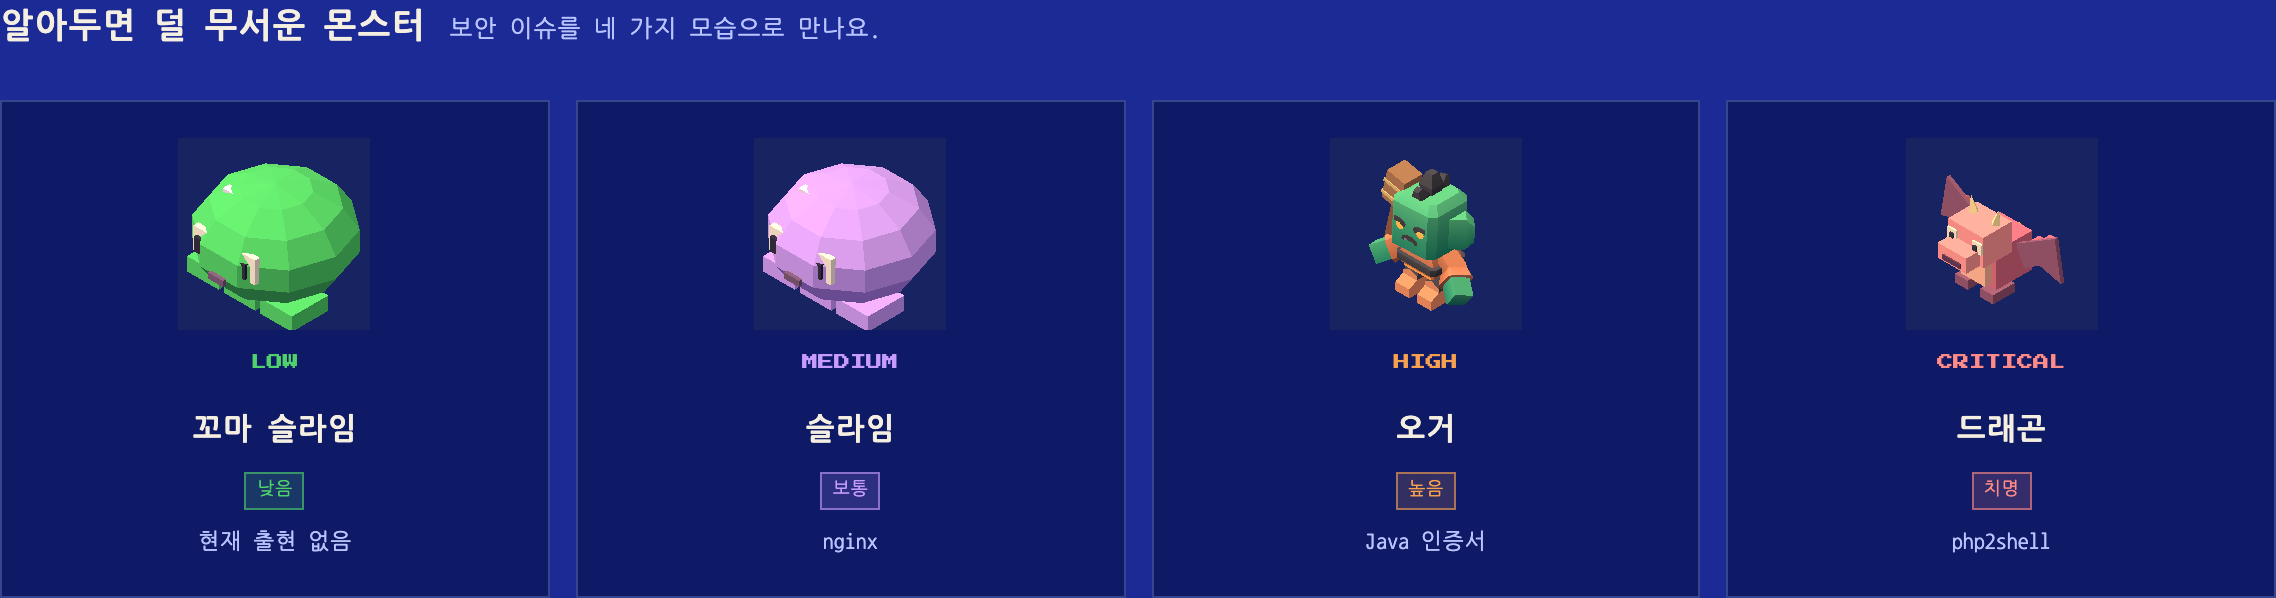
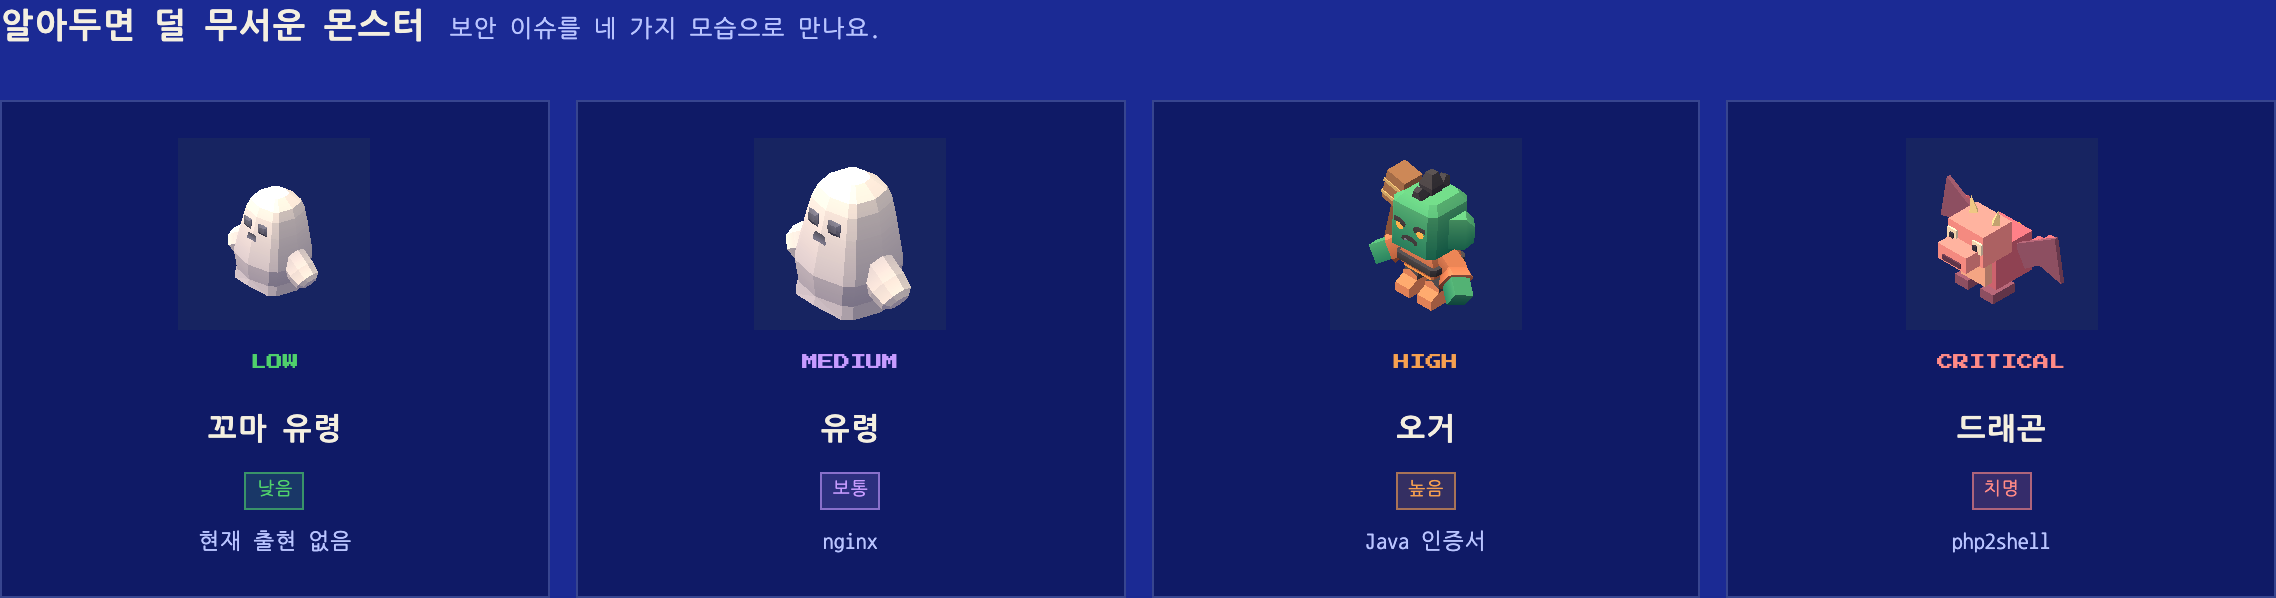
Replace slime monsters with animated Kenney ghosts

diff --git a/src/scene.js b/src/scene.js
@@ -150,7 +150,7 @@ export class OfficeScene {
     const rows=Math.ceil(count/2),spacing=Math.min(6.7,15/Math.max(1,rows-1));
     issues.forEach((issue,i)=>{
       const actor=monster(issue.grade);actor.root.traverse(n=>{if(n.isMesh)n.material=Array.isArray(n.material)?n.material.map(m=>m.clone()):n.material.clone();});this.scene.add(actor.root);const x=count<=3?23.5+(i%2)*1.1:19.3+(i%2)*7.1;const z=count<=3?7.2+i*6.1:5.5+Math.floor(i/2)*spacing;
-      actor.root.position.set(x,0,z);actor.root.rotation.y=-Math.PI/2;actor.home=actor.root.position.clone();actor.baseScale=actor.root.scale.clone();actor.issue=issue;actor.height=actor.height??5.4;
+      actor.root.position.set(x,actor.hoverHeight??0,z);actor.root.rotation.y=-Math.PI/2;actor.home=actor.root.position.clone();actor.baseScale=actor.root.scale.clone();actor.issue=issue;actor.height=actor.height??5.4;
       if(count>6){const s=Math.max(.48,Math.min(1,Math.sqrt(6/count)));actor.root.scale.multiplyScalar(s);actor.baseScale.copy(actor.root.scale);actor.height*=s;}
       if(actor.mixer)this.mixers.push(actor.mixer);
       this.register(actor,`issue-${issue.id}`,()=>`${issueLabel(issue)} · ${GRADES[issue.grade].ko} · ${targetVersion(issue)}에서 퇴치 예정`);
@@ -170,7 +170,7 @@ export class OfficeScene {
     const renderer=new THREE.WebGLRenderer({antialias:false,alpha:false,preserveDrawingBuffer:true});renderer.setSize(RENDERING.thumbnailSize,RENDERING.thumbnailSize);renderer.setPixelRatio(1);renderer.outputColorSpace=THREE.SRGBColorSpace;
     const thumbs={hero:thumbnail(renderer,this.hero.root),pet:thumbnail(renderer,this.pet.root)};
     this.crewActors.forEach((a,i)=>{const model=mini(i,a.data.shirt);model.mixer.update(.2);thumbs[`crew-${i}`]=thumbnail(renderer,model.root);});
-    Object.keys(GRADES).forEach(grade=>{const m=monster(grade);m.mixer?.update(.2);thumbs[grade]=thumbnail(renderer,m.root);});
+    Object.keys(GRADES).forEach(grade=>{const m=monster(grade);m.mixer?.update(.2);thumbs[grade]=thumbnail(renderer,m.root,{scale:grade==='low'?2.6/3.6:1});});
     renderer.dispose();renderer.forceContextLoss();this.thumbnails=thumbs;
   }
   label(className,text,target,height=0){
@@ -319,7 +319,7 @@ export class OfficeScene {
     this.riftCore.material.emissiveIntensity=1.2+Math.sin(t*2.8)*.6;this.riftAura.material.opacity=.12+(Math.sin(t*2.8)+1)*.06;
     const jump=(this.pet.jumpUntil??0)>t?Math.abs(Math.sin(((this.pet.jumpUntil-t)/.85)*Math.PI*2))*1.6:Math.max(0,Math.sin(t*3.2))*.3;this.pet.root.position.y=jump;
     for(const actor of this.monsters){
-      if(actor!==this.battle?.actor){if(actor.kind==='slime'){actor.root.scale.y=actor.baseScale.y*(1+Math.sin(t*2.5+actor.home.z)*.05);actor.root.position.y=Math.max(0,Math.sin(t*2.5+actor.home.z))*.17;}if(actor.kind==='dragon')actor.wings.forEach((w,i)=>w.rotation.z=Math.sin(t*2)*.06*(i?1:-1));}
+      if(actor!==this.battle?.actor){if(actor.kind==='ghost')actor.root.position.y=actor.home.y+Math.sin(t*2+actor.home.z)*.18;if(actor.kind==='dragon')actor.wings.forEach((w,i)=>w.rotation.z=Math.sin(t*2)*.06*(i?1:-1));}
     }
     if(!this.battle&&this.monsters.length&&t>=this.nextBattle)this.startBattle();
     if(this.battle)this.updateBattle();
@@ -337,17 +337,17 @@ export class OfficeScene {
     const type=actor.kind==='dragon'?'breath':'melee';this.battle={actor,type,start:this.elapsed,impact:false,defended:false};this.metrics.combat++;this.metrics[type]++;
     this.nextBattle=this.elapsed+random(2.6,4.2);this.pet.jumpUntil=this.elapsed+.85;this.bubble(this.pet,'삐빅!',1.2,{battle:true});
     const label=issueLabel(actor.issue);this.onLog(`${particle(label)} ${type==='breath'?'브레스를 준비한다':'방어선으로 다가온다'}`,'warn');
-    if(type==='melee'){actor.attackPosition=new THREE.Vector3(12.5,0,14.7);actor.setAction?.('walk');}
+    if(type==='melee'){actor.attackPosition=new THREE.Vector3(12.5,actor.home.y,14.7);actor.setAction?.('walk');}
   }
   updateBattle(){
     const battle=this.battle,actor=battle.actor,t=this.elapsed-battle.start;
     if(battle.type==='melee'){
       if(t<.8){actor.root.position.lerpVectors(actor.home,actor.attackPosition,ease(t/.8));actor.root.rotation.y=Math.atan2(this.hero.home.x-actor.home.x,this.hero.home.z-actor.home.z);}
-      else if(t<1.1){actor.setAction?.('idle');if(actor.club)actor.club.rotation.z=-.22-(t-.8)/.3*1.5;else actor.root.scale.y=actor.baseScale.y*(1-(t-.8)/.3*.35);}
+      else if(t<1.1){actor.setAction?.(actor.kind==='ghost'?'attack-melee-right':'idle');if(actor.club)actor.club.rotation.z=-.22-(t-.8)/.3*1.5;}
       else if(t<1.27){const p=(t-1.1)/.17;this.hero.root.position.x=lerp(this.hero.home.x,10.2,p);this.hero.sword.rotation.z=lerp(-.35,-2.1,p);if(actor.club)actor.club.rotation.z=lerp(-1.72,.4,p);}
       else if(t<2.25){
-        if(!battle.impact){battle.impact=true;this.bubble(this.hero,'반격!',1.3,{battle:true});this.onLog(`MDRM 용사가 ${particle(issueLabel(actor.issue),'을/를')} 밀어냈다`,'good');this.sparks.visible=true;this.sparks.position.set(11.5,2.7,14.7);this.flash(actor,true);}
-        const p=Math.min(1,(t-1.27)/.9);actor.root.position.lerpVectors(actor.attackPosition,actor.home,ease(p));actor.root.position.y=Math.sin(p*Math.PI)*1.1;this.hero.root.position.lerpVectors(new THREE.Vector3(10.2,0,14.7),this.hero.home,ease(Math.min(1,p*1.4)));this.hero.sword.rotation.z=lerp(-2.1,-.35,p);actor.root.scale.copy(actor.baseScale);if(actor.club)actor.club.rotation.z=lerp(.4,-.22,p);
+        if(!battle.impact){battle.impact=true;actor.setAction?.('idle');this.bubble(this.hero,'반격!',1.3,{battle:true});this.onLog(`MDRM 용사가 ${particle(issueLabel(actor.issue),'을/를')} 밀어냈다`,'good');this.sparks.visible=true;this.sparks.position.set(11.5,2.7,14.7);this.flash(actor,true);}
+        const p=Math.min(1,(t-1.27)/.9);actor.root.position.lerpVectors(actor.attackPosition,actor.home,ease(p));actor.root.position.y+=Math.sin(p*Math.PI)*1.1;this.hero.root.position.lerpVectors(new THREE.Vector3(10.2,0,14.7),this.hero.home,ease(Math.min(1,p*1.4)));this.hero.sword.rotation.z=lerp(-2.1,-.35,p);actor.root.scale.copy(actor.baseScale);if(actor.club)actor.club.rotation.z=lerp(.4,-.22,p);
         const st=t-1.27;this.sparks.children.forEach(s=>{s.position.copy(s.userData.velocity).multiplyScalar(st);s.position.y-=st*st*3;s.scale.setScalar(Math.max(.03,.3-st*.4));});if(st>.14)this.flash(actor,false);if(st>.6)this.sparks.visible=false;
       } else this.resetBattle();
     }else{
@@ -414,6 +414,6 @@ export class OfficeScene {
     this.renderer.setRenderTarget(null);this.renderer.setClearColor(0x18152e,0);this.renderer.clear();this.renderer.render(this.blitScene,this.blitCamera);this.updateOverlays();this.frameCount++;
   }
   snapshot(){
-    return {ready:this.ready,view:{zoom:this.zoom,pan:this.viewPan.toArray()},elapsed:this.elapsed,frames:this.frameCount,reduced:this.reduced,hidden:document.hidden,metrics:{...this.metrics},issues:this.monsters.map(a=>({id:a.issue.id,grade:a.issue.grade,position:a.root.position.toArray(),screen:this.project(a.root,a.height*.45)})),crew:this.crewActors.map(a=>({key:a.key,status:a.status,position:a.root.position.toArray(),screen:this.project(a.root,2)})),hero:this.project(this.hero.root,3),pet:this.project(this.pet.root,2),rack:this.project(this.actors.find(a=>a.kind==='rack').root,4),assets:this.assets,target:{width:this.renderTarget.width,height:this.renderTarget.height},viewport:{width:this.width,height:this.height},drawCalls:this.sceneDrawCalls,walkObstacles:this.obstacles.map(({name,object})=>{const b=new THREE.Box3().setFromObject(object);return {name,min:b.min.toArray(),max:b.max.toArray()};})};
+    return {ready:this.ready,view:{zoom:this.zoom,pan:this.viewPan.toArray()},elapsed:this.elapsed,frames:this.frameCount,reduced:this.reduced,hidden:document.hidden,metrics:{...this.metrics},issues:this.monsters.map(a=>({id:a.issue.id,grade:a.issue.grade,kind:a.kind,height:a.height,scale:a.root.scale.toArray(),position:a.root.position.toArray(),screen:this.project(a.root,a.height*.45)})),crew:this.crewActors.map(a=>({key:a.key,status:a.status,position:a.root.position.toArray(),screen:this.project(a.root,2)})),hero:this.project(this.hero.root,3),pet:this.project(this.pet.root,2),rack:this.project(this.actors.find(a=>a.kind==='rack').root,4),assets:this.assets,target:{width:this.renderTarget.width,height:this.renderTarget.height},viewport:{width:this.width,height:this.height},drawCalls:this.sceneDrawCalls,walkObstacles:this.obstacles.map(({name,object})=>{const b=new THREE.Box3().setFromObject(object);return {name,min:b.min.toArray(),max:b.max.toArray()};})};
   }
 }

diff --git a/src/models.js b/src/models.js
@@ -1,7 +1,6 @@
 import * as THREE from 'three';
 import { GLTFLoader } from 'three/addons/loaders/GLTFLoader.js';
 import { clone as cloneSkeleton } from 'three/addons/utils/SkeletonUtils.js';
-import { GRADES } from './data.js';
 
 const CACHE = new Map();
 const BOX = new THREE.BoxGeometry(1, 1, 1);
@@ -12,7 +11,7 @@ const FURNITURE = ['desk','chairDesk','computerScreen','computerKeyboard','compu
 const DUNGEON = ['character-human','character-orc','weapon-sword','shield-rectangle','barrel','rocks'];
 export async function loadAssets() {
   const missing=[];const manager=new THREE.LoadingManager();manager.onError=url=>missing.push(url);const loader = new GLTFLoader(manager);
-  const entries = [...CHARACTER_FILES.map(n => ['mini-characters',n]),...FURNITURE.map(n => ['furniture-kit',n]),...DUNGEON.map(n => ['mini-dungeon',n])];
+  const entries = [...CHARACTER_FILES.map(n => ['mini-characters',n]),...FURNITURE.map(n => ['furniture-kit',n]),...DUNGEON.map(n => ['mini-dungeon',n]),['graveyard-kit','character-ghost']];
   await Promise.all(entries.map(async ([pack,name]) => {
     const gltf = await loader.loadAsync(new URL(`../assets/kenney/${pack}/${name}.glb`, import.meta.url).href);
     gltf.scene.traverse(node => {
@@ -26,7 +25,7 @@ export async function loadAssets() {
     CACHE.set(name,gltf);
   }));
   if(missing.length)throw new Error('에셋 파일 누락: '+missing.join(', '));
-  return { files: CACHE.size, characterAnimations: CACHE.get(CHARACTER_FILES[0]).animations.map(a => a.name) };
+  return { files: CACHE.size, characterAnimations: CACHE.get(CHARACTER_FILES[0]).animations.map(a => a.name), ghostAnimations: CACHE.get('character-ghost').animations.map(a => a.name) };
 }
 export function material(color, emissive = false) {
   const key = color + ':' + emissive;
@@ -78,7 +77,7 @@ function recolorClothing(model,index,color) {
 }
 
 export function mini(index=0, shirt, height=4.5, kind='crew') {
-  const filename = kind==='hero' ? 'character-human' : kind==='ogre' ? 'character-orc' : CHARACTER_FILES[index%CHARACTER_FILES.length];
+  const filename = {hero:'character-human',ogre:'character-orc',ghost:'character-ghost'}[kind] ?? CHARACTER_FILES[index%CHARACTER_FILES.length];
   const asset = CACHE.get(filename), root=group(), model=cloneSkeleton(asset.scene); root.add(model);
   const b = new THREE.Box3().setFromObject(model), size=b.getSize(new THREE.Vector3());
   const scale=height/size.y; model.scale.setScalar(scale); model.position.y=-b.min.y*scale;
@@ -123,14 +122,10 @@ export function robot() {
   box(body,.45,.2,.1,'#f5c542',0,1.2,.61,true);
   return {root,body,height:4,kind:'pet'};
 }
-function slime(grade) {
-  const root=group(), color=GRADES[grade].color;
-  const body = new THREE.Mesh(new THREE.SphereGeometry(1.85,10,7),material(color));body.position.y=1.25;body.scale.set(1,.7,1);body.castShadow=true;root.add(body);
-  const feet=group(root);for(const x of [-1.1,0,1.1])box(feet,.95,.4,1.1,color,x,.22,.55);
-  for(const x of [-.65,.65]){box(root,.55,.65,.15,'#f4efe0',x,1.45,1.48);box(root,.23,.38,.12,'#29263e',x-.05,1.4,1.6);}
-  box(root,.45,.16,.1,'#76557d',0,.95,1.77);box(root,.4,.25,.2,'#efe2ff',-.7,2.2,.6);
-  if(grade==='low')root.scale.setScalar(.72);
-  return {root,body,height:grade==='low'?2:2.9,kind:'slime'};
+function ghost(grade) {
+  const actor=mini(0,null,grade==='low'?2.6:3.6,'ghost');
+  actor.hoverHeight=.45;
+  return actor;
 }
 function dragon() {
   const root=group(), body=group(root), red='#d56d83', light='#ff9b9a', dark='#925774';
@@ -157,20 +152,20 @@ function dragon() {
 }
 export function monster(grade) {
   if(grade==='critical')return dragon();
-  if(grade==='low'||grade==='medium')return slime(grade);
+  if(grade==='low'||grade==='medium')return ghost(grade);
   const actor=mini(0,'#f6a050',5.4,'ogre');
   const clubPivot=group(actor.root,-1.7,2.3,.1);
   box(clubPivot,.35,2.5,.35,'#8c5a40',0,.6,0);box(clubPivot,.95,1.4,.95,'#a97854',0,2.1,0);
   for(const y of [1.7,2.3])box(clubPivot,1.03,.14,1.03,'#d7b87a',0,y,0);
   clubPivot.rotation.z=-.22;actor.club=clubPivot;actor.kind='ogre';return actor;
 }
-export function thumbnail(renderer, object, bg='#172461') {
+export function thumbnail(renderer, object, {bg='#172461',scale=1}={}) {
   const thumbScene = new THREE.Scene();thumbScene.background=new THREE.Color(bg);
   thumbScene.add(new THREE.HemisphereLight('#fff1e0','#6d6595',2.25));
   const light=new THREE.DirectionalLight('#ffe6c7',3.4);light.position.set(-25,65,35);thumbScene.add(light);
   const clone=cloneSkeleton(object);clone.position.set(0,0,0);clone.rotation.set(0,0,0);thumbScene.add(clone);clone.updateMatrixWorld(true);
   const b=new THREE.Box3().setFromObject(clone),center=b.getCenter(new THREE.Vector3()),size=b.getSize(new THREE.Vector3());
-  const extent=Math.max(size.y,size.x*.85,size.z*.85)*1.33;
+  const extent=Math.max(size.y,size.x*.85,size.z*.85)*1.33/scale;
   const camera=new THREE.OrthographicCamera(-extent/2,extent/2,extent/2,-extent/2,.1,100);
   camera.position.copy(center).add(new THREE.Vector3(10,10,10));camera.lookAt(center);
   renderer.render(thumbScene,camera);

diff --git a/src/data.js b/src/data.js
@@ -3,8 +3,8 @@ export const PRODUCT = { name: 'MDRM', current: '4.7.3', next: '4.7.4', releaseD
 // 세밀한 픽셀 표현: 화면 밀도를 반영하되 렌더 비용에 상한을 둡니다.
 export const RENDERING = { maxSceneWidth: 1920, maxPixelRatio: 3, thumbnailSize: 384 };
 export const GRADES = {
-  low: { ko: '낮음', en: 'LOW', form: '꼬마 슬라임', color: '#4fd16b' },
-  medium: { ko: '보통', en: 'MEDIUM', form: '슬라임', color: '#c79bff' },
+  low: { ko: '낮음', en: 'LOW', form: '꼬마 유령', color: '#4fd16b' },
+  medium: { ko: '보통', en: 'MEDIUM', form: '유령', color: '#c79bff' },
   high: { ko: '높음', en: 'HIGH', form: '오거', color: '#f6a050' },
   critical: { ko: '치명', en: 'CRITICAL', form: '드래곤', color: '#ff8a86' },
 };

diff --git a/README.md b/README.md
@@ -51,6 +51,7 @@ Three.js, GLB, PNG 팔레트와 폰트를 모두 포함했습니다. 실행 중 
 - 안티앨리어싱은 꺼져 있습니다. DirectionalLight 1개, HemisphereLight 1개, `BasicShadowMap`을 사용합니다.
 - 말풍선·이름·등급·벽 라벨·릴리스 보드 제목은 HTML입니다. 벽 표지판과 보드 제목은 해당 3D 객체에 연결된 면의 꼭짓점을 투영해 상자 전체의 위치·기울기·크기를 맞춥니다. 말풍선은 가까운 빈 위치를 찾고 벽 표지판과 보드 제목 영역도 피해 배치합니다.
 - 직원은 모델의 실제 `sit`, `idle`, `walk` 애니메이션을 사용합니다. 보행 속도는 약 2.4 units/s입니다.
+- 낮음·보통 등급은 Graveyard Kit의 흰 유령 모델을 사용합니다. 낮음은 작은 `꼬마 유령`, 보통은 `유령`이며 도감에서도 크기를 구분합니다. 원본의 `idle`·`walk`·`attack-melee-right` 애니메이션과 부유 이동을 사용하고, 장면·패널·이력·도감·활동 로그에 같은 이름과 모델을 반영합니다.
 - 근접 전투, 검 휘두르기, 넉백, 스파크, 드래곤 브레스와 방패 동작은 하나의 프레임 시간 기반 상태 머신으로 진행합니다. 별도의 전투 타이머가 백그라운드에서 계속 실행되지 않습니다.
 - 숨김 상태에서는 `requestAnimationFrame`을 취소하고 시뮬레이션 시간이 멈춥니다. 복귀 시 누적된 시간을 한꺼번에 진행하지 않습니다.
 - `prefers-reduced-motion: reduce`에서는 초기 정지 화면과 고정 상태를 표시합니다. 창 크기 변경·상태 조회·화면 확대 및 이동에 필요한 재렌더만 수행합니다.
@@ -72,12 +73,13 @@ Three.js, GLB, PNG 팔레트와 폰트를 모두 포함했습니다. 실행 중 
 | [Kenney Mini Characters](https://kenney.nl/assets/mini-characters) · CC0 | 6개 캐릭터 GLB, `idle`·`walk`·`sit` 등 32개 애니메이션 확인 |
 | [Kenney Furniture Kit](https://kenney.nl/assets/furniture-kit) · CC0 | 책상·의자·모니터·키보드·마우스·책장·책·커피머신·캐비닛·화분·테이블·노트북·러그 등 15개 GLB |
 | [Kenney Mini Dungeon](https://kenney.nl/assets/mini-dungeon) · CC0 | 인간·오크·검·방패·통·돌 6개 GLB |
+| [Kenney Graveyard Kit 5.0](https://kenney.nl/assets/graveyard-kit) · CC0 | `character-ghost.glb`와 원본 팔레트 텍스처, 대기·이동·공격 등 32개 애니메이션 확인 |
 | [Three.js r160](https://github.com/mrdoob/three.js/tree/r160) · MIT | 렌더러와 로더·유틸리티, [LICENSE](vendor/three/LICENSE) 동봉 |
 | [Google Fonts](https://github.com/google/fonts) · SIL OFL | 지정한 두 폰트와 라이선스를 `assets/fonts/`에 동봉 |
 
 처음 제시된 `mini-characters-1` 주소 대신 공식 `mini-characters` 팩을 사용했습니다. 실제 포함된 파일과 SHA-256은 [assets/kenney/manifest.json](assets/kenney/manifest.json)에 기록했습니다. 캐릭터·던전 GLB가 참조하는 `Textures/colormap.png`도 포함되어 있습니다.
 
-**직접 만든 도형:** 드래곤, 두 종류 슬라임, AGENT 로봇, 서버 랙, 화이트보드, 방 구조, 모니터 코드 줄, LED, 균열, 불꽃·스파크는 Three.js 기본 도형으로 제작했습니다. 오거는 Mini Dungeon의 **오크를 확대하고 주황색 의상·복셀 몽둥이를 추가한 변형**입니다. 용사는 Mini Dungeon 인간에 은색 투구, 붉은 깃털, 파란 갑옷을 추가하고 실제 Kenney 검·방패를 사용합니다. 직원 셔츠는 인스턴스별 팔레트 복제로 지정 색을 적용합니다. 원본 GLB는 변경하지 않았습니다.
+**직접 만든 도형:** 드래곤, AGENT 로봇, 서버 랙, 화이트보드, 방 구조, 모니터 코드 줄, LED, 균열, 불꽃·스파크는 Three.js 기본 도형으로 제작했습니다. 오거는 Mini Dungeon의 **오크를 확대하고 주황색 의상·복셀 몽둥이를 추가한 변형**입니다. 용사는 Mini Dungeon 인간에 은색 투구, 붉은 깃털, 파란 갑옷을 추가하고 실제 Kenney 검·방패를 사용합니다. 유령과 직원은 Kenney 원본 모델이며, 직원 셔츠만 인스턴스별 팔레트 복제로 지정 색을 적용합니다. 원본 GLB는 변경하지 않았습니다.
 
 ## 검증
 

diff --git a/docs/validation.md b/docs/validation.md
@@ -8,9 +8,10 @@
 | 1280 × 1000px 데스크톱 | 콘솔·페이지·HTTP 오류 0, 가로 넘침 0 |
 | 390 × 844px 모바일 뷰포트 | 콘솔 오류 0, 가로 넘침 0, 4개 탭 표시 확인 |
 | 900px / 901px 레이아웃 전환 | 가로 넘침 없음 |
-| 로컬 Kenney 모델 | 27개 GLB 및 필요한 텍스처 로딩 확인 |
+| 로컬 Kenney 모델 | 28개 GLB 및 필요한 텍스처 로딩 확인 |
 | 장면 해상도 보완 | 1280px / DPR 2: 1752 × 1236, 390px / DPR 3: 1056 × 1035, 900px / DPR 3: 1920 × 1423, 일반 DPR 1: 876 × 618 |
-| 정적 에셋 | GLB·PNG 29개 SHA-256 일치, 외부 이미지 참조 누락 없음 |
+| 정적 에셋 | GLB·PNG 31개 SHA-256 일치, 외부 이미지 참조 누락 없음 |
+| 유령 모델 | Graveyard Kit 5.0 원본 GLB·텍스처 적용, 대기·이동·공격 클립 확인, 유령·꼬마 유령 이름과 크기 구분 |
 | 실제 3D 썸네일 | 모든 이미지 384 × 384 로딩 완료 |
 | 벽·칠판 글자 부착 | 벽 방향에 따른 ±30° 기울기, 표면 비율과 크기 동기화, 칠판 제목 말풍선 겹침 없음 |
 | 사무실 확대·이동 | 100~300%, 전체 보기 복귀, 드래그·방향 버튼·키보드·Ctrl+휠, 확대 상태의 레이캐스트와 글자 비율 동기화 통과 |
@@ -85,3 +86,10 @@ npm run test:visibility
 100~300% 확대·축소, 전체 보기 복귀, 확대 화면 드래그와 방향 버튼을 추가했습니다. 키보드 `+`·`−`·방향키·`0`과 Ctrl/Command+휠도 지원합니다. 일반 휠은 페이지 스크롤을 유지하고, 드래그 종료가 캐릭터 클릭으로 처리되지 않도록 구분합니다. 모션 줄이기 상태에서는 화면만 다시 그리며 자동 진행은 정지 상태를 유지합니다.
 
 로컬 Chrome에서 확대 상한·하한, 이동 경계, 포인터 중심 휠 확대, 확대된 용사 클릭, 벽·칠판 글자의 동시 확대, 창 크기 변경 후 배율 유지를 검증했습니다. 1280px·390px의 실제 렌더를 확인하고 375px 세로·844px 가로 화면 및 터치 드래그를 Chrome에서 모사했습니다. 버튼은 44px 이상의 터치 영역을 유지하며 가로 넘침이 없습니다. 콘솔·페이지·HTTP 오류 0, 데이터 단위 테스트 7/7, 기존 브라우저 검증 통과, 기본 배율 자동 진행 평균 60fps·완전한 1초 구간 최저 60fps입니다. 터치는 모사 검증이며 실제 휴대폰은 미검증입니다.
+
+
+## 슬라임을 Kenney 유령으로 교체
+
+Graveyard Kit 5.0의 `character-ghost.glb`, 참조하는 `Textures/colormap.png`, CC0 라이선스를 포함했습니다. 원본 파일 바이트를 유지하고 SHA-256을 에셋 목록에 기록했습니다. 낮음 등급은 꼬마 유령, 보통 등급은 유령이며, 도감 썸네일에서도 작은 크기를 유지합니다. 등급 색상과 이슈 등급은 기존 값을 유지합니다.
+
+원본 `idle`·`walk`·`attack-melee-right` 클립을 연결하고 유령이 지면 위에서 부유하도록 했습니다. 근접 접근·넉백 중에도 높이를 유지하며 슬라임 찌그러짐은 제거했습니다. 로컬 Chrome에서 장면·패널·이력·도감·클릭 설명, 추가 이슈의 꼬마 유령, 등급 변경, 퇴치 처리와 모션 줄이기를 검증했습니다. 1280px·390px 렌더와 900px 경계에서 가로 넘침·콘솔·페이지·HTTP 오류가 없었습니다. 실제 휴대폰 및 iOS Safari는 미검증입니다.
